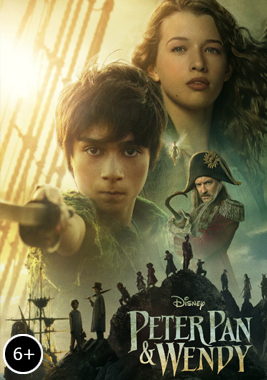
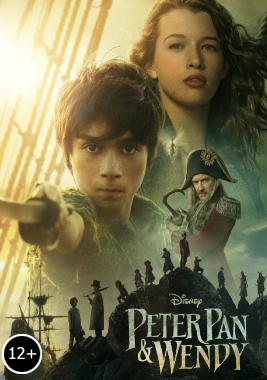
last 26-07-23

diff --git a/ExternalScripts/PhotoShopScedule/makeSceduleImages.jsx b/ExternalScripts/PhotoShopScedule/makeSceduleImages.jsx
@@ -68,7 +68,7 @@ var makeFilmItem = function (filmSet, sceduleItemKey, dayTitlesArr, filmIndex) {
 
 // Главный цикл -----------------------------------------------------------------
 // Подготовленное для фотошопа расписание сеансов
-var preparedPSscedule = loadJson('psScedule.json')
+var preparedPSscedule = loadJson('psSchedule.json')
 
 // Массив с ключами дней недели, для которых необходимо сформировать расписание
 var dayKeysRanges = {
@@ -78,7 +78,7 @@ var dayKeysRanges = {
     allWeek: ["day1", "day2", "day3", "day4", "day5", "day6", "day0"]
 }
 // Это единственный изменяемый параметр 
-var dayKeysArr = ["day1"]
+var dayKeysArr = ["day4"]
 
 // Цикл, пробегающийся по выбранным в dayKeysArr фильмам
 for (var i = 0; i < dayKeysArr.length; i++) {

diff --git a/src/REDUX/filmsArray.ts b/src/REDUX/filmsArray.ts
@@ -121,7 +121,7 @@ export const filmsArray = [
     kind: 'Фэнтези, семейный, приключения',
     director: 'Дэвид Лоури',
     duration: '106 мин. / 01:46',
-    age: '6+',
+    age: '12+',
     dubbing: 'Red Head Sound',
     actors:
       'Эвер Андерсон, Александр Молони, Джуд Лоу, Алисса Вапанатак, Джим Гэффиган, Джошуа Пикеринг, Jacobi Jupe, Молли Паркер, Алан Тьюдик, Яра Шахиди',

diff --git a/ExternalScripts/PhotoShopScedule/makePSscedule.ts b/ExternalScripts/PhotoShopScedule/makePSscedule.ts
@@ -85,7 +85,7 @@ const prepareSceduleForPS = sceduleKeysArray => {
 
   // Выносим расписание в отдельный JSON файл для дальнейшего использование фотошопом
   fs.writeFileSync(
-    'ExternalScripts/PhotoShopScedule/psScedule.json',
+    'ExternalScripts/PhotoShopScedule/psSchedule.json',
     JSON.stringify(preparedPSscedule)
   )
 }

diff --git a/ExternalScripts/WebpConverter/convertToWebP.js b/ExternalScripts/WebpConverter/convertToWebP.js
@@ -27,12 +27,12 @@ const convertToWebP = name => {
     webp.cwebp(
       options[name].input + file,
       options[name].output + file.replace('.jpg', '.webp'),
-      '-q 100'
+      '-q 90'
     )
   })
 }
 
 // convertToWebP('input')
 convertToWebP('description')
-convertToWebP('top_menu')
+// convertToWebP('top_menu')
 // convertToWebP('main')
